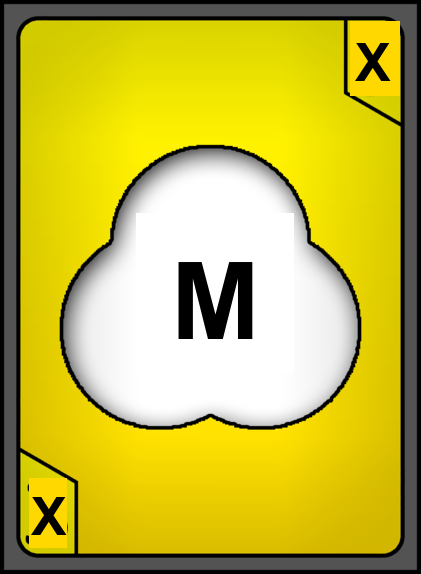
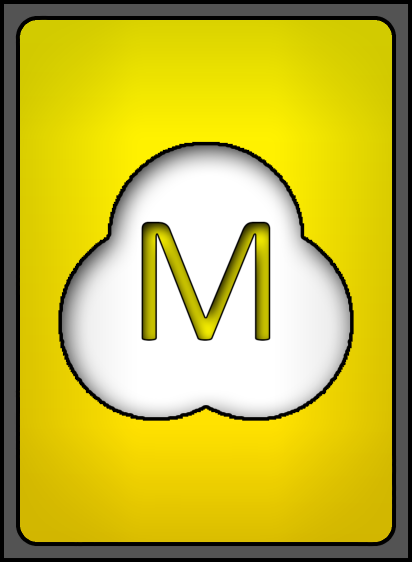
Added the new images for hack cards. May need some updates to make them more visible, but they are a nice addition. Also, changed home page background to gradient. (#620)

diff --git a/src/components/landingPage/LandingPage.vue b/src/components/landingPage/LandingPage.vue
@@ -47,7 +47,7 @@ export default {
   min-width: 500px;
   height: 94.5%;
   min-height: 500px;
-  background-image: url('/static/backgroundImg/helloWorld.png');
+  background-image: linear-gradient(to bottom right, purple, darkblue);
   font-family: monospace;
 }
 
